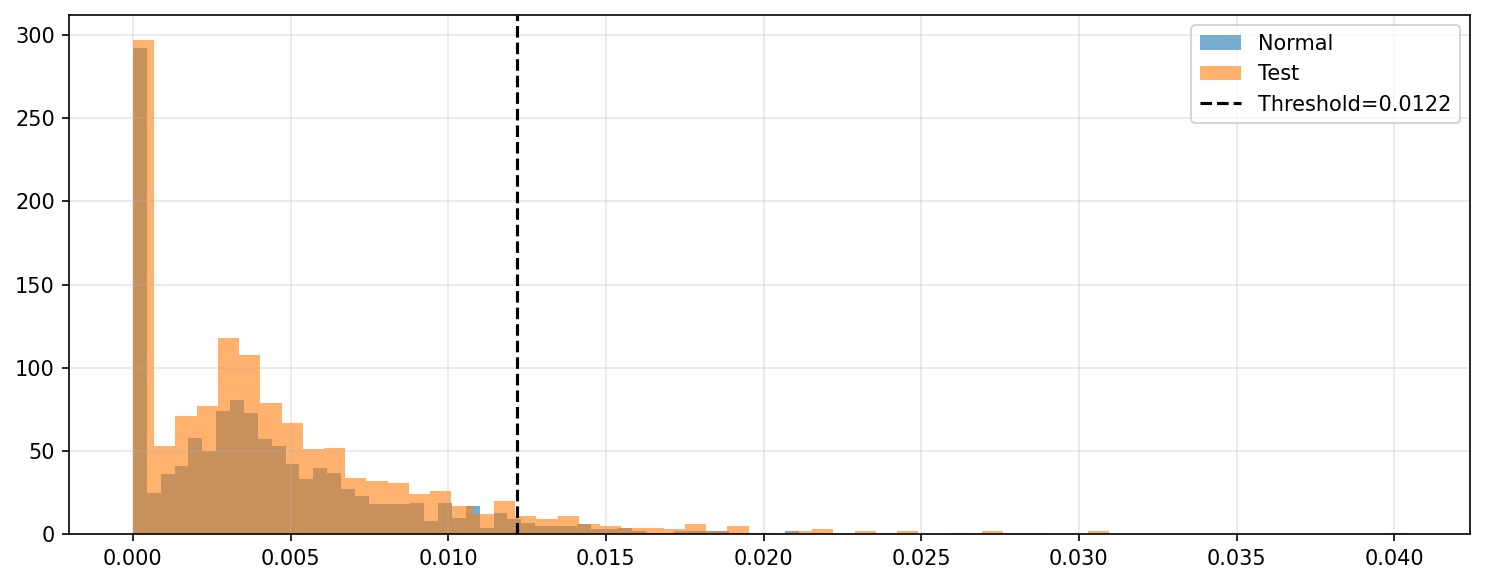
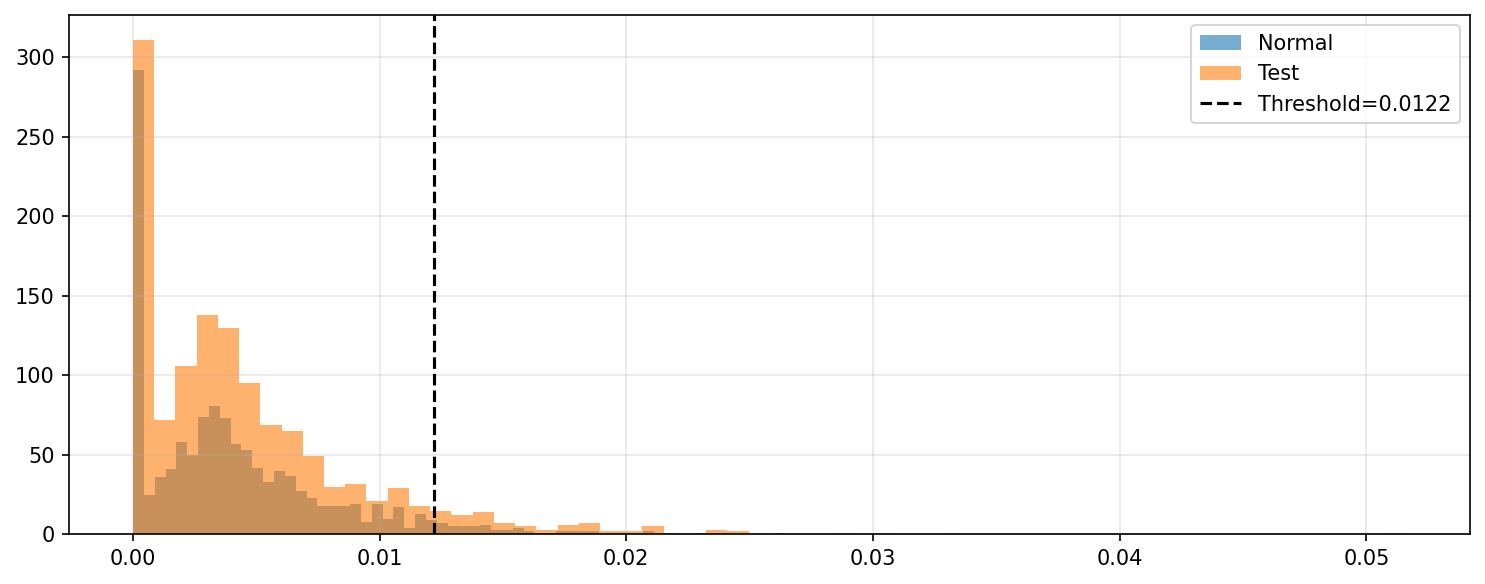
modification

diff --git a/src/data_generation/plot_all_scenarios.py b/src/data_generation/plot_all_scenarios.py
@@ -1,0 +1,106 @@
+import pandas as pd
+import numpy as np
+import matplotlib
+matplotlib.use('Agg')
+import matplotlib.pyplot as plt
+import os
+
+# ─── CONFIG ───────────────────────────────────────────────────────────────────
+SCENARIOS_DIR = os.path.join(
+    os.path.abspath(os.path.join(os.path.dirname(__file__), "..", "..")),
+    "data", "scenarios"
+)
+
+SCENARIOS = [
+    {"file": "daily_routine.csv",      "title": "Scenario 1: Daily Routine"},
+    {"file": "outside_day.csv",         "title": "Scenario 2: Outside Day"},
+    {"file": "routine_+_cleaning.csv",  "title": "Scenario 3: Routine + Cleaning"},
+    {"file": "routine_+_cooking.csv",   "title": "Scenario 4: Routine + Cooking"},
+    {"file": "routine_+_laundry.csv",   "title": "Scenario 5: Routine + Laundry"},
+]
+
+# Night = 0–360 (midnight→6 AM) and 1320–1440 (10 PM→midnight)
+NIGHT_MORNING_END   = 360
+NIGHT_EVENING_START = 1320
+
+LINE_COLOR  = "#1565C0"
+FILL_COLOR  = "#90CAF9"
+NIGHT_COLOR = "#B0BEC5"
+
+
+# ─── HELPER: load CSV → 1-D array of 1440 values ─────────────────────────────
+def load_values(csv_path):
+    df = pd.read_csv(csv_path)
+    consumption_cols = [c for c in df.columns if c.startswith("m_")]
+    if not consumption_cols:
+        consumption_cols = df.select_dtypes(include=[np.number]).columns.tolist()
+        consumption_cols = consumption_cols[:1440]
+    return df[consumption_cols].mean(axis=0).values   # average across all rows
+
+
+# ─── HELPER: draw one subplot ─────────────────────────────────────────────────
+def draw_scenario(ax, values, title, outside=False):
+    minutes = np.arange(1, len(values) + 1)
+
+    # Night shading — two blocks (morning + evening)
+    ax.axvspan(0, NIGHT_MORNING_END, alpha=0.18, color=NIGHT_COLOR,
+               label="Night (Sleep)", zorder=0)
+    ax.axvspan(NIGHT_EVENING_START, 1440, alpha=0.18, color=NIGHT_COLOR,
+               zorder=0)
+
+    # Line + area fill
+    ax.plot(minutes, values, color=LINE_COLOR, linewidth=1.2,
+            label="Consumption (W)", zorder=2)
+    ax.fill_between(minutes, values, alpha=0.20, color=FILL_COLOR, zorder=1)
+
+    ax.set_title(title, fontsize=13, fontweight="bold", pad=8)
+    ax.set_xlabel("Time (Minutes from 1 to 1440)", fontsize=10)
+    ax.set_ylabel("Power (Watts)", fontsize=10)
+    ax.set_xlim(0, 1440)
+
+    # Outside Day: person away → tiny flat consumption → tighten y-axis
+    if outside:
+        ymax = max(values) * 5
+        ax.set_ylim(0, max(ymax, 300))
+    else:
+        ax.set_ylim(bottom=0)
+
+    ax.grid(alpha=0.3, linestyle="--")
+
+    # Deduplicate legend (axvspan adds "Night (Sleep)" twice)
+    handles, labels = ax.get_legend_handles_labels()
+    seen = {}
+    for h, l in zip(handles, labels):
+        if l not in seen:
+            seen[l] = h
+    ax.legend(seen.values(), seen.keys(), fontsize=9, loc="upper right")
+
+
+# ─── BUILD FIGURE ─────────────────────────────────────────────────────────────
+fig, axes = plt.subplots(nrows=3, ncols=2, figsize=(16, 14),
+                          constrained_layout=True)
+axes = axes.flatten()
+
+for idx, scenario in enumerate(SCENARIOS):
+    csv_path = os.path.join(SCENARIOS_DIR, scenario["file"])
+    values   = load_values(csv_path)
+    is_outside = "outside" in scenario["file"].lower()
+    draw_scenario(axes[idx], values, scenario["title"], outside=is_outside)
+
+# Hide unused 6th cell
+axes[-1].set_visible(False)
+
+fig.suptitle("Daily Energy Consumption — All Scenarios",
+             fontsize=16, fontweight="bold", y=1.01)
+
+# ─── SAVE ─────────────────────────────────────────────────────────────────────
+out_dir = os.path.join(
+    os.path.abspath(os.path.join(os.path.dirname(__file__), "..", "..")),
+    "reports", "figures"
+)
+os.makedirs(out_dir, exist_ok=True)
+out_path = os.path.join(out_dir, "full_scenarios_comparison.png")
+
+plt.savefig(out_path, dpi=150, bbox_inches="tight")
+plt.close()
+print(f"Saved -> {out_path}")

diff --git a/src/evaluation/detect_anomalies.py b/src/evaluation/detect_anomalies.py
@@ -190,12 +190,10 @@ def main():
     # ─────────────────────────────────────────────────────────────────────────
     fig, ax = plt.subplots(figsize=(10, 4))
     ax.hist(test_mse, bins=50, color="#4C72B0", alpha=0.75, edgecolor="white",
-            label="Reconstruction errors (test days)")
-    ax.axvline(threshold, color="red", linewidth=2, linestyle="--",
-               label=f"Threshold = {threshold:.4f}  (k={best_k})")
-    ax.set_xlabel("MSE par jour")
-    ax.set_ylabel("Nombre de jours")
-    ax.set_title("Distribution des erreurs de reconstruction ( Classic Autoencoder ) — TEST", fontweight="bold")
+            label="Reconstruction errors ")
+    ax.set_xlabel("MSE per day")
+    ax.set_ylabel("Number of days")
+    ax.set_title("Reconstruction Error Distribution — Classic Autoencoder", fontweight="bold")
     ax.legend()
     ax.grid(alpha=0.3)
     plt.tight_layout()
